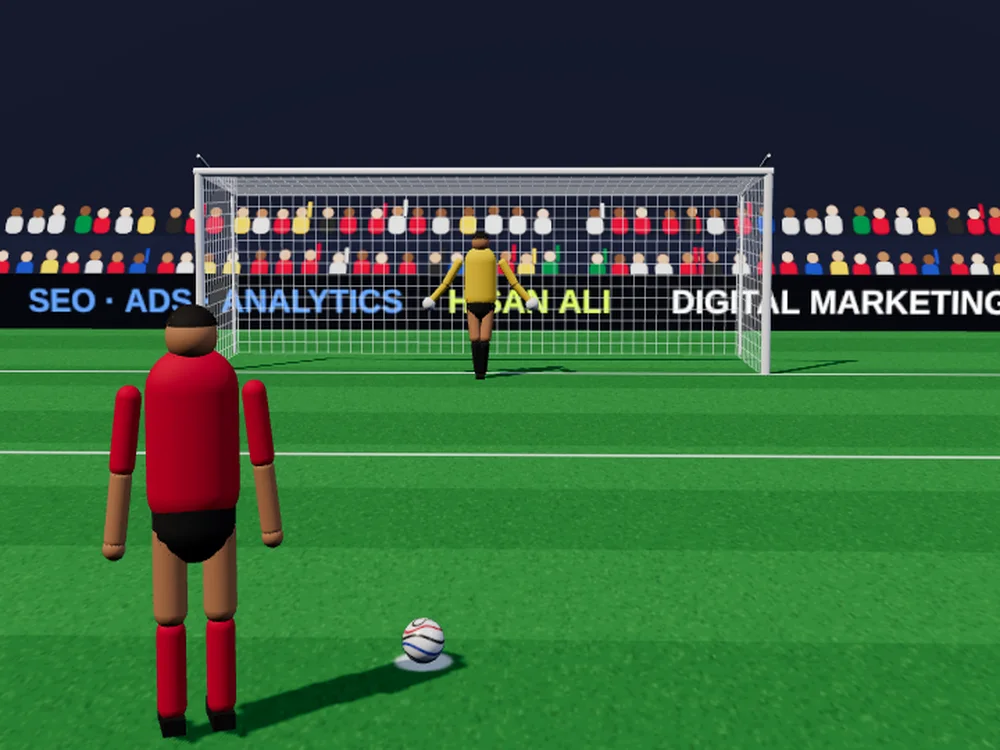
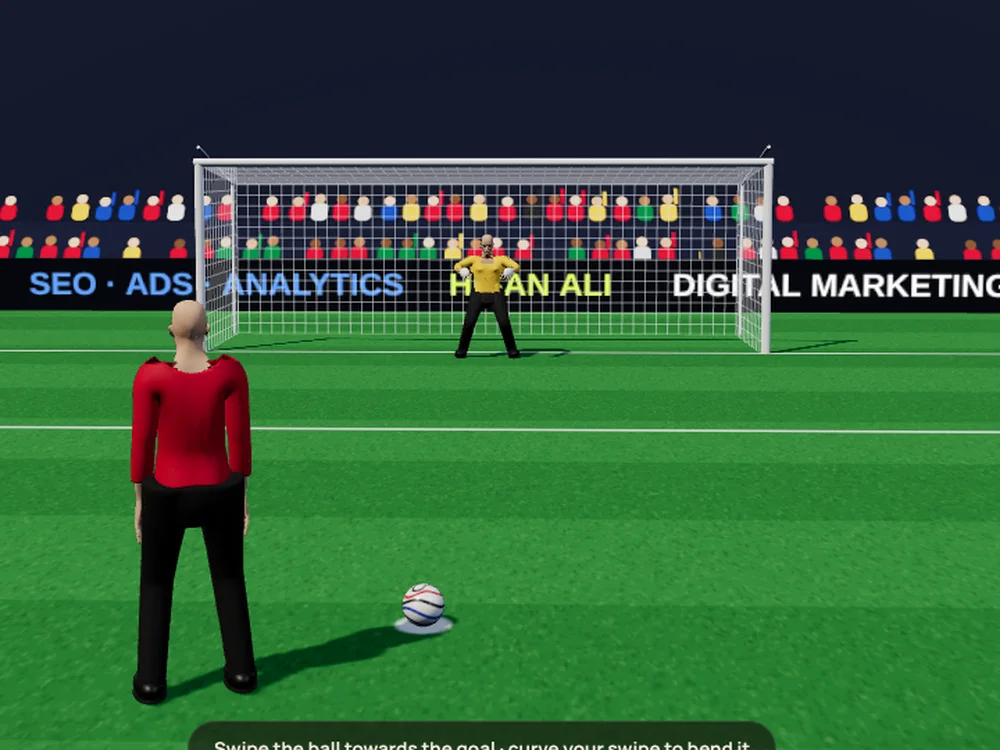
Use rigged realistic humans for the penalty taker and goalkeeper
Replaces capsule figures with the CC0 MakeHuman bodies from Evermile, recoloured into kits, with a jogging run-up, striking motion, crouched keeper stance and full-stretch dives. Denser crowd in the stands.

Claude-Session: https://claude.ai/code/session_01GnV8sEAqp7xxjTjFePoAP7

Changed region(s): [[0.0, 0.184, 1.0, 1.0]]

diff --git a/penalty/game.js b/penalty/game.js
@@ -1,4 +1,6 @@
 import * as T from '../evermile/vendor/three.module.js';
+import { GLTFLoader } from '../evermile/vendor/loaders/GLTFLoader.js';
+import { clone as cloneSkinned } from '../evermile/vendor/utils/SkeletonUtils.js';
 
 /* ---------- Constants (metres, seconds) ---------- */
 const GOAL_W = 7.32, GOAL_H = 2.44, HALF_W = GOAL_W / 2, SPOT = 11, R = .11, POST = .06, G = 9.81, NET_D = 2.1;
@@ -143,27 +145,46 @@ const ball = new T.Mesh(new T.SphereGeometry(R, 48, 32), new T.MeshPhysicalMater
 ball.castShadow = true; scene.add(ball);
 
 /* ---------- People ---------- */
-function person(shirt, shorts, keeper) {
-  const root = new T.Group(), body = new T.Group(); root.add(body);
-  const mat = c => new T.MeshStandardMaterial({ color: c, roughness: .75 });
-  const skin = mat('#b27a55'), shirtM = mat(shirt), shortM = mat(shorts), sockM = mat(keeper ? '#222' : shirt), shoe = mat('#111');
-  const part = (geo, m, x, y, z, parent = body) => { const p = new T.Mesh(geo, m); p.position.set(x, y, z); p.castShadow = true; parent.add(p); return p; };
-  const pivot = (x, y, z, parent = body) => { const p = new T.Group(); p.position.set(x, y, z); parent.add(p); return p; };
-  part(new T.CapsuleGeometry(.19, .42, 6, 16), shirtM, 0, 1.28, 0).scale.set(1.08, 1, .72);
-  part(new T.CapsuleGeometry(.16, .12, 6, 16), shortM, 0, .98, 0).scale.set(1.15, 1, .8);
-  const head = pivot(0, 1.72, 0); part(new T.SphereGeometry(.115, 24, 16), skin, 0, 0, 0, head); part(new T.SphereGeometry(.118, 24, 16, 0, Math.PI * 2, 0, 1.3), mat('#1a120c'), 0, .015, -.01, head);
-  part(new T.CylinderGeometry(.05, .055, .1, 12), skin, 0, 1.6, 0);
-  const arms = [-1, 1].map(s => { const a = pivot(s * .27, 1.5, 0); part(new T.CapsuleGeometry(.055, .28, 4, 10), shirtM, 0, -.17, 0, a); const fore = pivot(0, -.34, 0, a); part(new T.CapsuleGeometry(.048, .26, 4, 10), keeper ? shirtM : skin, 0, -.15, 0, fore); part(new T.SphereGeometry(keeper ? .085 : .05, 14, 10), keeper ? mat('#f2f2f2') : skin, 0, -.32, 0, fore); a.rotation.z = s * .12; return { a, fore }; });
-  const legs = [-1, 1].map(s => { const l = pivot(s * .11, .95, 0); part(new T.CapsuleGeometry(.075, .34, 4, 10), skin, 0, -.22, 0, l); const shin = pivot(0, -.44, 0, l); part(new T.CapsuleGeometry(.065, .32, 4, 10), sockM, 0, -.2, 0, shin); part(new T.BoxGeometry(.1, .07, .26), shoe, 0, -.43, .05, shin); return { l, shin }; });
-  scene.add(root);
-  return { root, body, head, arms, legs };
+// Realistic rigged humans (MakeHuman CC0 bodies from Evermile), recoloured into football kits and posed bone by bone.
+const BODY = { shooter: 'pedestrian-0', keeper: 'pedestrian-0' }, gltfs = {};
+const bodiesReady = Promise.all(Object.entries(BODY).map(([k, f]) => new Promise((res, rej) => new GLTFLoader().load(`../evermile/assets/models/${f}.glb?v=1`, g => { gltfs[k] = g; res(); }, undefined, rej))));
+class Rig {
+  constructor(kind, shirt, trousers, gloves) {
+    const g = gltfs[kind], model = cloneSkinned(g.scene); this.root = new T.Group(); this.root.add(model);
+    const box = new T.Box3().setFromObject(model), h = box.max.y - box.min.y, k = 1.82 / h; model.scale.setScalar(k); model.position.y = -box.min.y * k; this.k = k; this.model = model;
+    model.traverse(o => { if (!o.isMesh) return; o.castShadow = true; o.receiveShadow = false; o.frustumCulled = false;
+      o.material = (Array.isArray(o.material) ? o.material : [o.material]).map(m => { const c = m.clone(); const n = m.name;
+        if (n.startsWith('Cloth_Shirt')) { c.color.set(shirt); c.roughness = .62; c.map = null; }
+        else if (n.startsWith('Cloth_Trousers')) { c.color.set(trousers); c.roughness = .7; c.map = null; }
+        else if (n.startsWith('Leather_Shoes')) { c.color.set('#111'); c.roughness = .35; }
+        else if (n.startsWith('Hair')) c.visible = false;
+        return c; });
+      if (o.material.length === 1) o.material = o.material[0]; });
+    this.bones = {}; model.traverse(o => { if (o.isBone) this.bones[o.name] = o; });
+    this.rest = Object.fromEntries(Object.entries(this.bones).map(([n, b]) => [n, b.quaternion.clone()]));
+    this.restHips = this.bones.Hips.position.clone();
+    this.mixer = new T.AnimationMixer(model); this.clips = Object.fromEntries(g.animations.map(a => [a.name, this.mixer.clipAction(a)]));
+    if (gloves) for (const hand of ['lHand', 'rHand']) { const m = new T.Mesh(new T.SphereGeometry(.07 / k, 16, 12), new T.MeshStandardMaterial({ color: gloves, roughness: .5 })); m.scale.set(1, 1.35, .7); m.position.y = .06 / k; m.castShadow = true; this.bones[hand].add(m); }
+    this.anim = null; scene.add(this.root);
+  }
+  play(name, speed = 1) { this.anim = name; Object.values(this.clips).forEach(a => a.stop()); const a = this.clips[name]; a.reset().play(); a.timeScale = speed; }
+  // Sets bones to rest pose plus Euler offsets (radians); stops clip playback.
+  pose(offsets, hipsDrop = 0) {
+    if (this.anim) { Object.values(this.clips).forEach(a => a.stop()); this.anim = null; }
+    for (const [n, b] of Object.entries(this.bones)) { b.quaternion.copy(this.rest[n]); const o = offsets[n]; if (o) b.quaternion.multiply(new T.Quaternion().setFromEuler(new T.Euler(o[0] || 0, o[1] || 0, o[2] || 0))); }
+    this.bones.Hips.position.copy(this.restHips); this.bones.Hips.position.y -= hipsDrop / this.k;
+  }
+  update(dt) { if (this.anim) this.mixer.update(dt); }
+  dispose() { scene.remove(this.root); }
 }
+const mix = (a, b, t) => a + (b - a) * t;
 let keeper, shooter;
 function dressTeams(youShoot) {
-  if (keeper) scene.remove(keeper.root); if (shooter) scene.remove(shooter.root);
+  keeper?.dispose(); shooter?.dispose();
   const [you, youShorts] = KITS[settings.kit] || KITS.red, cpu = settings.kit === 'white' ? ['#1d1d1d', '#1d1d1d'] : ['#f3f3f3', '#1d1d1d'];
-  keeper = person(youShoot ? '#f2c230' : '#2bd17e', '#1d1d1d', true);
-  shooter = person(youShoot ? you : cpu[0], youShoot ? youShorts : cpu[1], false);
+  keeper = new Rig('keeper', youShoot ? '#f2c230' : '#22c46e', '#1b1b1b', '#f4f4f4');
+  shooter = new Rig('shooter', youShoot ? you : cpu[0], '#141414');
+  shooter.play('Idle');
 }
 
 /* ---------- Sound ---------- */
@@ -189,11 +210,11 @@ function setupKick(youShoot) {
   youShooting = youShoot; dressTeams(youShoot);
   ball.position.set(0, R, SPOT); ball.rotation.set(0, 0, 0);
   keeperState = { x: 0, y: 0, start: 0, from: new T.Vector3(0, 1, 0), to: null, dur: .6, diving: false, t: 0 };
-  keeper.root.position.set(0, 0, .35); keeper.root.rotation.set(0, 0, 0); keeper.body.rotation.set(0, 0, 0);
+  keeper.root.position.set(0, 0, .35); keeper.root.rotation.set(0, 0, 0);
   shooter.root.position.set(youShoot ? -.95 : -1.4, 0, SPOT + (youShoot ? 1.0 : 2.6)); shooter.root.rotation.set(0, Math.PI + (youShoot ? .35 : .45), 0);
   shooter.root.visible = true;
   ballState = null; timeScale = 1; tapAim = null;
-  camTarget = youShoot ? { pos: new T.Vector3(.5, 2.35, SPOT + 7), look: new T.Vector3(0, .9, 0) } : { pos: new T.Vector3(1.25, 2.05, -3.2), look: new T.Vector3(-.3, .9, SPOT) };
+  camTarget = youShoot ? { pos: new T.Vector3(.5, 2.35, SPOT + 7), look: new T.Vector3(0, .9, 0) } : { pos: new T.Vector3(1.1, 2.0, -4.3), look: new T.Vector3(-.2, .85, SPOT) };
   if (mode) { camera.position.copy(camTarget.pos); camTarget.cur = camTarget.look.clone(); camera.lookAt(camTarget.cur); }
   phase = youShoot ? 'aim' : 'cpu-runup';
   if (!youShoot) setTimeout(() => cpuShoot(), 1600);
@@ -207,7 +228,7 @@ function kick(target, flight, curl, byYou) {
   const v = new T.Vector3((target.x - p0.x - .5 * curl * t * t) / t, (target.y - p0.y + .5 * G * t * t) / t, dz / t);
   ballState = { v, curl, spin: new T.Vector3(-v.z * 3, curl * 2, 0), time: 0, crossed: false, result: null, byYou, done: false, rest: 0 };
   sound.kick(); phase = 'flight';
-  if (byYou) { const leg = shooter.legs[1]; leg.l.rotation.x = -1.2; setTimeout(() => { leg.l.rotation.x = .7; leg.shin.rotation.x = .1; }, 70); }
+  if (byYou) strike();
   // Keeper reaction
   if (byYou) {
     const L = level(), guessRight = Math.random() < L.save, side = Math.random() < .5 ? -1 : 1;
@@ -235,18 +256,29 @@ function cpuShoot() {
   });
 }
 
+// Run-up with the walk cycle sped up to a jog, then a real striking motion.
 function runUp(then) {
-  const start = shooter.root.position.clone(), end = new T.Vector3(-.35, 0, SPOT + .45), t0 = performance.now(), dur = 900;
-  shooter.root.rotation.y = Math.atan2(end.x - start.x, end.z - start.z);
+  const start = shooter.root.position.clone(), end = new T.Vector3(-.55, 0, SPOT + .55), t0 = performance.now(), dur = 1100;
+  shooter.root.rotation.y = Math.atan2(end.x - start.x, end.z - start.z); shooter.play('Walk', 2.1);
+  const step = () => {
+    const t = Math.min(1, (performance.now() - t0) / dur); shooter.root.position.lerpVectors(start, end, t);
+    if (t < 1) requestAnimationFrame(step); else { shooter.root.rotation.y = Math.PI + .3; strike(then); }
+  };
+  step();
+}
+function strike(then) {
+  const t0 = performance.now(), dur = 520; let fired = false;
   const step = () => {
     const t = Math.min(1, (performance.now() - t0) / dur);
-    shooter.root.position.lerpVectors(start, end, t);
-    const swing = Math.sin(t * Math.PI * 6);
-    shooter.legs[0].l.rotation.x = swing * .7; shooter.legs[1].l.rotation.x = -swing * .7; shooter.arms[0].a.rotation.x = -swing * .5; shooter.arms[1].a.rotation.x = swing * .5;
-    if (t < 1) requestAnimationFrame(step);
-    else { shooter.legs[1].l.rotation.x = -1.3; shooter.legs[1].shin.rotation.x = .2; setTimeout(() => { shooter.legs[1].l.rotation.x = .6; }, 60); then(); }
+    const back = t < .4 ? t / .4 : 1 - (t - .4) / .6, through = t < .4 ? 0 : Math.min(1, (t - .4) / .25);
+    shooter.pose({
+      rThigh: [mix(.9 * back, -1.25, through), 0, .05], rShin: [mix(1.5 * back, .15, through), 0, 0], rFoot: [.4, 0, 0],
+      lThigh: [-.25, 0, -.08], lShin: [.35, 0, 0], Chest: [mix(.15, -.25, through), 0, 0], lArm: [0, 0, -1.0], rArm: [0, 0, .55]
+    }, .05);
+    if (!fired && t >= .45) { fired = true; then?.(); }
+    if (t < 1) requestAnimationFrame(step); else setTimeout(() => shooter.play('Idle'), 500);
   };
-  shooter.root.rotation.y = Math.PI + Math.atan2(start.x - end.x, start.z - end.z); step();
+  step();
 }
 
 /* ---------- Swipe input ---------- */
@@ -340,23 +372,28 @@ function keeperHand() {
 }
 
 function updateKeeper(dt, now) {
-  const k = keeperState, kp = keeper; if (!k) return;
+  const k = keeperState, kp = keeper; if (!k || !kp) return;
   if (k.pending && simTime >= k.pending.at) { const pd = k.pending; k.pending = null; dive(pd.aim, pd.reach); }
   if (!k.diving) {
-    const sway = Math.sin(now * 2.2) * .25; kp.root.position.x = sway; k.from.set(sway, 1.1, 0);
-    kp.body.position.y = -.08 + Math.sin(now * 4.4) * .02; kp.arms.forEach((a, i) => { a.a.rotation.z = (i ? 1 : -1) * .55; a.fore.rotation.z = (i ? 1 : -1) * .2; });
-    kp.legs.forEach((l, i) => { l.l.rotation.x = -.25; l.shin.rotation.x = .45; l.l.rotation.z = (i ? -1 : 1) * .12; });
+    const sway = Math.sin(now * 2.2) * .22, bob = Math.sin(now * 4.4) * .03; kp.root.position.set(sway, 0, .35); kp.root.rotation.set(0, 0, 0); k.from.set(sway, 1.1, 0);
+    kp.pose({ lThigh: [-.55, 0, -.22], rThigh: [-.55, 0, .22], lShin: [1.05, 0, 0], rShin: [1.05, 0, 0], lFoot: [-.45, 0, 0], rFoot: [-.45, 0, 0],
+      Chest: [.32, 0, 0], lArm: [-.35, 0, -.95], rArm: [-.35, 0, .95], lForearm: [-.5, 0, 0], rForearm: [-.5, 0, 0] }, .2 + bob);
     return;
   }
   const p = Math.min(1, (simTime - k.start) / k.dur), e = 1 - Math.pow(1 - p, 2.2), hand = keeperHand();
-  const side = Math.sign(k.to.x) || 0, highness = Math.min(1, k.to.y / 2.2), lateral = Math.abs(k.to.x);
-  const roll = side * Math.min(1.45, lateral / 2.4) * (1.2 - highness * .35) * e;
-  kp.root.position.x = k.from.x + (hand.x - k.from.x) * (lateral > .6 ? .55 : .2) * 1;
-  kp.root.position.y = Math.max(0, Math.sin(Math.min(1, p * 1.2) * Math.PI) * (.25 + highness * .6) - (lateral > 1.2 ? (1 - highness) * e * .35 : 0));
+  const side = Math.sign(k.to.x) || 0, high = Math.min(1, k.to.y / 2.2), lateral = Math.abs(k.to.x);
+  const roll = side * Math.min(1.35, lateral / 2.3) * (1.15 - high * .4) * e;
+  kp.root.position.x = k.from.x + (hand.x - k.from.x) * (lateral > .6 ? .62 : .25);
+  kp.root.position.y = Math.max(0, Math.sin(Math.min(1, p * 1.15) * Math.PI) * (.2 + high * .55) + (lateral > 1 ? .25 * e : 0));
   kp.root.rotation.z = -roll;
-  kp.body.position.y = 0;
-  kp.arms.forEach((a, i) => { const s = i ? 1 : -1, reachUp = side === 0 ? 3 : (s === side ? 2.9 : 2.4); a.a.rotation.z = s * (.55 + (reachUp - .55) * e); a.fore.rotation.z = 0; });
-  kp.legs.forEach((l, i) => { l.l.rotation.x = 0; l.shin.rotation.x = .1; l.l.rotation.z = (i ? -1 : 1) * (.12 + e * .25); });
+  const up = side === 0 ? 2.7 : 2.85, lead = side >= 0 ? 'l' : 'r';
+  // Arms stretch overhead towards the ball; the trailing leg tucks, the leading leg extends.
+  kp.pose({
+    lArm: [-.2 * (1 - e), 0, -mix(.95, up, e)], rArm: [-.2 * (1 - e), 0, mix(.95, up, e)], lForearm: [0, 0, 0], rForearm: [0, 0, 0],
+    Chest: [mix(.32, .05, e), 0, -side * .45 * e],
+    lThigh: [mix(-.55, lead === 'l' ? -.1 : -.9, e), 0, mix(-.22, -.5, e)], rThigh: [mix(-.55, lead === 'r' ? -.1 : -.9, e), 0, mix(.22, .5, e)],
+    lShin: [mix(1.05, lead === 'l' ? .15 : 1.3, e), 0, 0], rShin: [mix(1.05, lead === 'r' ? .15 : 1.3, e), 0, 0]
+  }, mix(.2, 0, e));
 }
 
 function updateCamera(dt) {
@@ -441,6 +478,7 @@ function syncSegments() {
 }
 document.querySelectorAll('.seg[data-setting]').forEach(seg => seg.addEventListener('click', e => { const b = e.target.closest('button[data-value]'); if (!b) return; settings[seg.dataset.setting] = b.dataset.value; save(); syncSegments(); }));
 function start(m) {
+  if (!keeper) return;
   sound.ctx(); sound.ambience(); sound.setAmbience(true); sound.whistle();
   mode = m; score = { you: [], cpu: [] }; streak = 0; $('start').hidden = true; $('result').hidden = true; setupKick(true);
 }
@@ -462,16 +500,17 @@ renderer.setAnimationLoop(() => {
   const raw = Math.min(clock.getDelta(), .05), now = performance.now() / 1000, dt = raw * timeScale;
   simTime += dt;
   if (ballState) { const sub = 4; for (let i = 0; i < sub; i++) updateBall(dt / sub); }
-  updateKeeper(dt, now);
+  updateKeeper(dt, now); shooter?.update(raw);
   nets.forEach(n => n.update(raw));
   adTex.offset.x = (adTex.offset.x + raw * .04) % 1;
   effects = effects.filter(f => { f.life += raw; f.update(raw); if (f.life > f.max) { f.dispose(); return false; } return true; });
-  if (phase === 'menu') { const a = now * .12; camTarget.pos.set(Math.sin(a) * 9, 2.8, SPOT + Math.cos(a) * 6); }
+  if (phase === 'menu' && camTarget) { const a = now * .12; camTarget.pos.set(Math.sin(a) * 9, 2.8, SPOT + Math.cos(a) * 6); }
   updateCamera(raw);
   if (ballState?.done && phase === 'flight') { phase = 'between'; after = setTimeout(nextKick, 300); }
   renderer.render(scene, camera);
 });
 
-syncSegments(); setupMenuView(); hud();
+syncSegments(); hud();
+bodiesReady.then(() => { setupMenuView(); document.body.classList.add('is-loaded'); }).catch(() => toast('Could not load the players. Please refresh.'));
 camera.position.set(8, 3, SPOT + 6);
 setTimeout(() => document.body.classList.add('is-ready'), 50);

diff --git a/games/index.html b/games/index.html
@@ -234,7 +234,7 @@
             <span class="game-pick-body"><span class="game-pick-kicker">Board · 2–4 players · Online</span><b class="game-pick-title">Ludo</b><small class="game-pick-desc">Roll the die, race your tokens home and capture rivals. Play the computer or up to three friends online.</small><span class="game-pick-foot"><span class="game-mode">Opens in a new tab</span><span class="game-play"><svg viewBox="0 0 24 24" aria-hidden="true"><path d="M8 5.5v13l10.5-6.5Z"/></svg>Play<svg class="gc-out" viewBox="0 0 24 24" aria-hidden="true"><path d="M7 17 17 7M9 7h8v8"/></svg></span></span></span>
           </a>
           <a class="game-pick is-main" href="/penalty/" target="_blank" rel="noopener" data-category="arcade" data-online="false" data-title="Penalty Shootout" aria-label="Penalty Shootout, opens in a new tab" style="--tone:#2bd17e">
-            <span class="game-art"><img src="/games/thumbs/penalty.webp?v=1" alt="" width="1000" height="750" decoding="async"><span class="game-badge is-new">New</span></span>
+            <span class="game-art"><img src="/games/thumbs/penalty.webp?v=2" alt="" width="1000" height="750" decoding="async"><span class="game-badge is-new">New</span></span>
             <span class="game-pick-body"><span class="game-pick-kicker">Football · 3D stadium</span><b class="game-pick-title">Penalty</b><small class="game-pick-desc">Swipe to curl your shot past the keeper, then dive to save theirs. Five kicks each, then sudden death.</small><span class="game-pick-foot"><span class="game-mode">Opens in a new tab</span><span class="game-play"><svg viewBox="0 0 24 24" aria-hidden="true"><path d="M8 5.5v13l10.5-6.5Z"/></svg>Play<svg class="gc-out" viewBox="0 0 24 24" aria-hidden="true"><path d="M7 17 17 7M9 7h8v8"/></svg></span></span></span>
           </a>
           <a class="game-pick is-main" href="/evermile/" target="_blank" rel="noopener" data-category="arcade" data-title="Evermile" aria-label="Evermile, opens in a new tab" style="--tone:#e0843a">

diff --git a/penalty/index.html b/penalty/index.html
@@ -63,6 +63,6 @@
     <div class="result-actions"><button id="again" class="primary" type="button">Play again</button><button id="to-menu" type="button" style="grid-column:1/-1">Menu</button></div></div>
 </section>
 <div class="toast" id="toast" role="status"></div>
-<script type="module" src="game.js?v=1"></script>
+<script type="module" src="game.js?v=2"></script>
 </body>
 </html>
